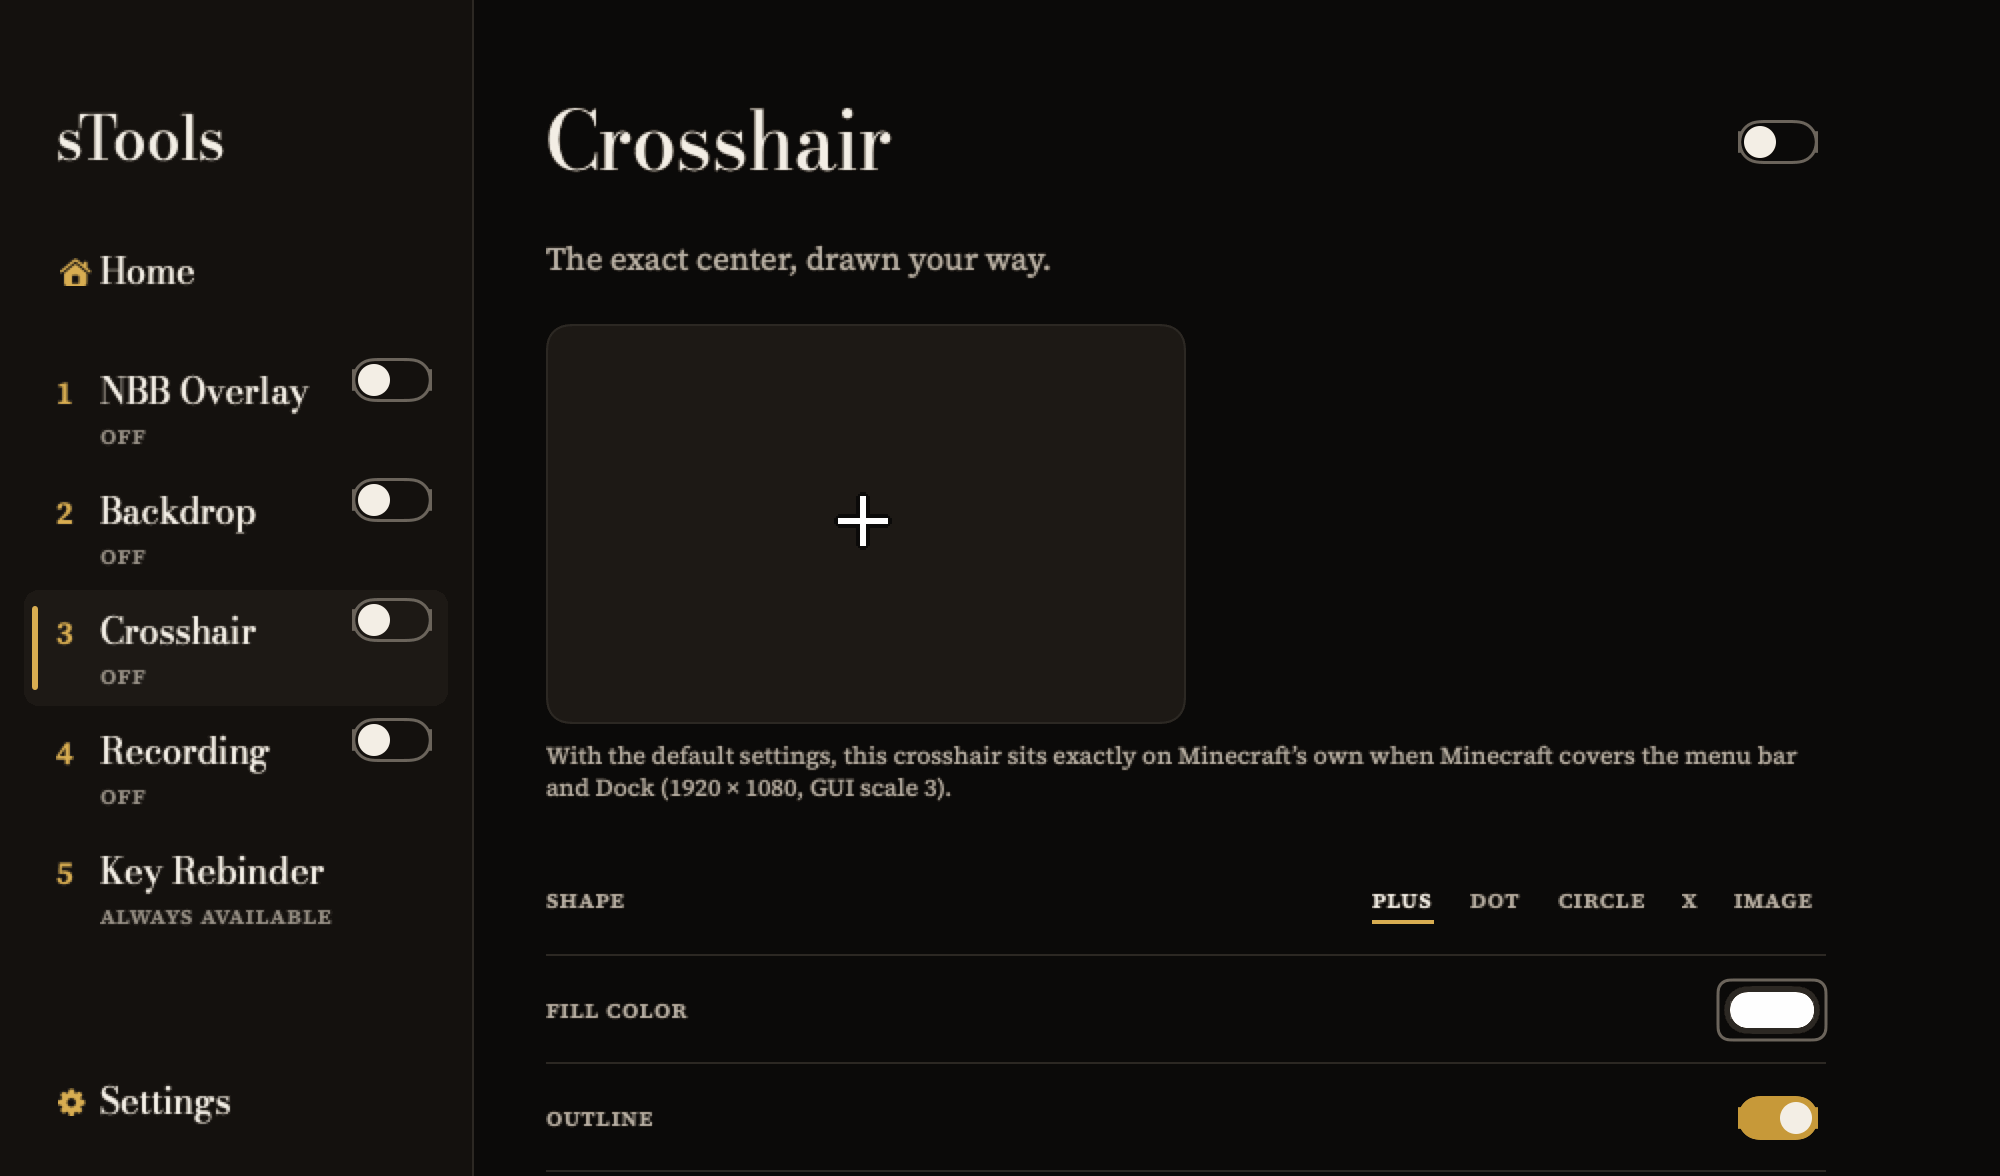
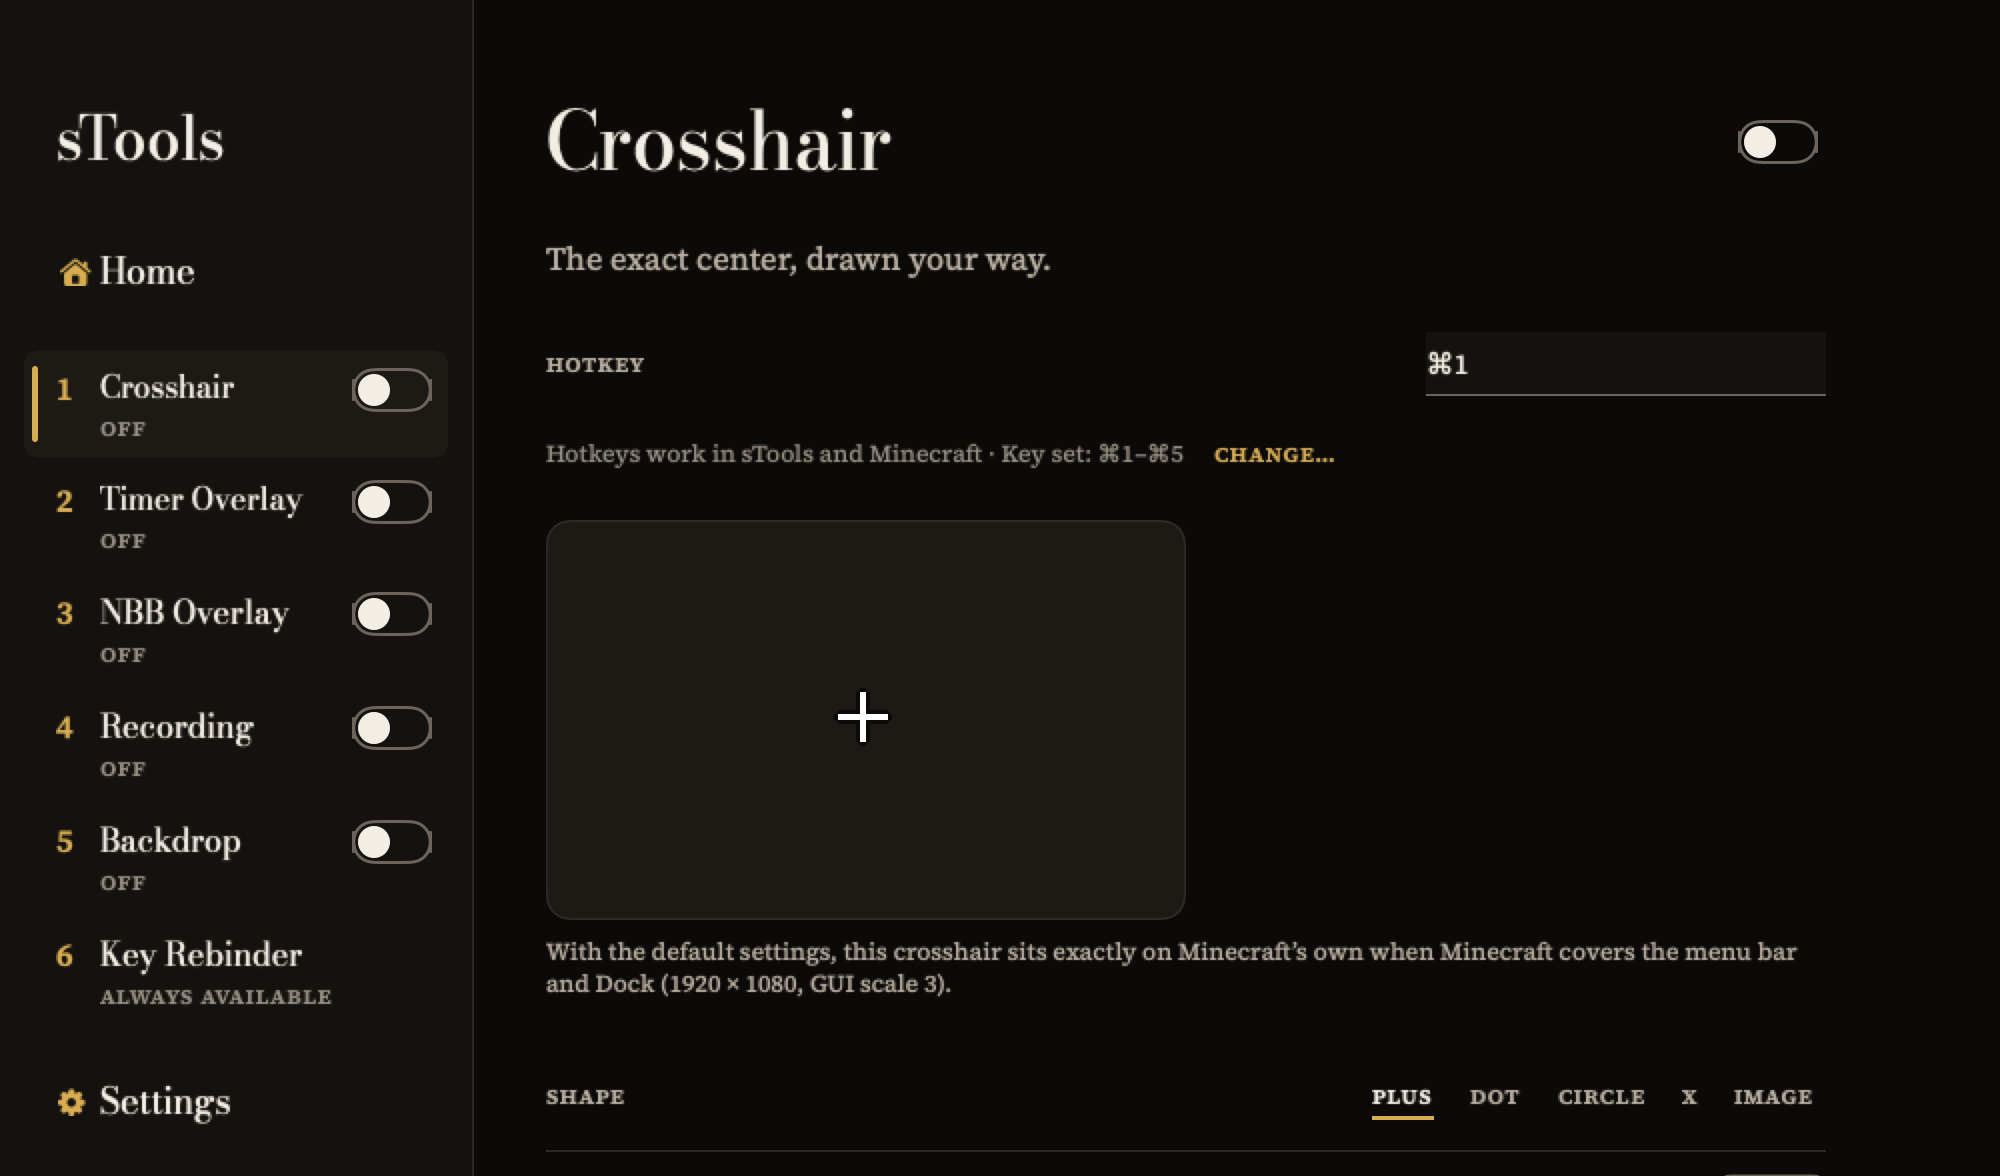
docs(readme): re-render the Crosshair and Key Rebinder screenshots
Both showed the old sidebar: five tools in the old order, no Timer
Overlay and no Hotkey row. They are rendered again off-screen from the
real current pages (2x, dark as the app always is) on temporary folders
with fake services, so no real settings were read or written, and
reduced to a 256-color palette. The Crosshair shot keeps its size and
now shows the Hotkey row. The Key Rebinder page now draws the mouse
under the larger keyboard at this width, so its shot is taller (2000 x
1640) to show the whole plate. The alt texts describe what each shows.
The icon matches packaging/sTools.icns and is unchanged.

diff --git a/README.md b/README.md
@@ -28,7 +28,7 @@ sTools puts the tools around a speedrun into one native Mac app: a crosshair pla
 It's built for the game first. Overlays are click-through and never take focus from Minecraft, and anything with a reasonable alternative is a setting. The app itself is always dark, set in serif type with gold accents.
 
 <p align="center">
-  <img src="docs/images/key-rebinder.png" alt="The Key Rebinder page: a drawn keyboard and mouse with Caps Lock rebound to F3 in gold and Minecraft's keybinds in small capitals under each key">
+  <img src="docs/images/key-rebinder.png" alt="The Key Rebinder page: the sidebar with its six tools, and a drawn keyboard and mouse with Caps Lock rebound to F3 in gold, Minecraft's keybinds in small capitals under each key and gold rings on the keys of sTools hotkeys">
 </p>
 
 ## The tools
@@ -49,7 +49,7 @@ Each tool has its own page: a live preview where it helps, then its settings, wi
 Draws a click-through crosshair at the exact center of Minecraft's display, above everything, a full-screen game included. Pick a plus, dot, circle or X, or use your own image, SVG or PDF with one of five anchor points. Set its color and outline, and its size, thickness, gap and offset in real pixels. Out of the box it sits exactly on Minecraft's own crosshair at GUI scale 3 on a 1920 × 1080 display, with Minecraft filling the screen.
 
 <p align="center">
-  <img src="docs/images/crosshair.png" width="640" alt="The Crosshair page: a preview plate with a white plus outlined in black, and rows for shape, fill color and outline">
+  <img src="docs/images/crosshair.png" width="640" alt="The Crosshair page: its Hotkey row with ⌘1, a preview plate with a white plus outlined in black, and the Shape row">
 </p>
 
 ### Timer Overlay
